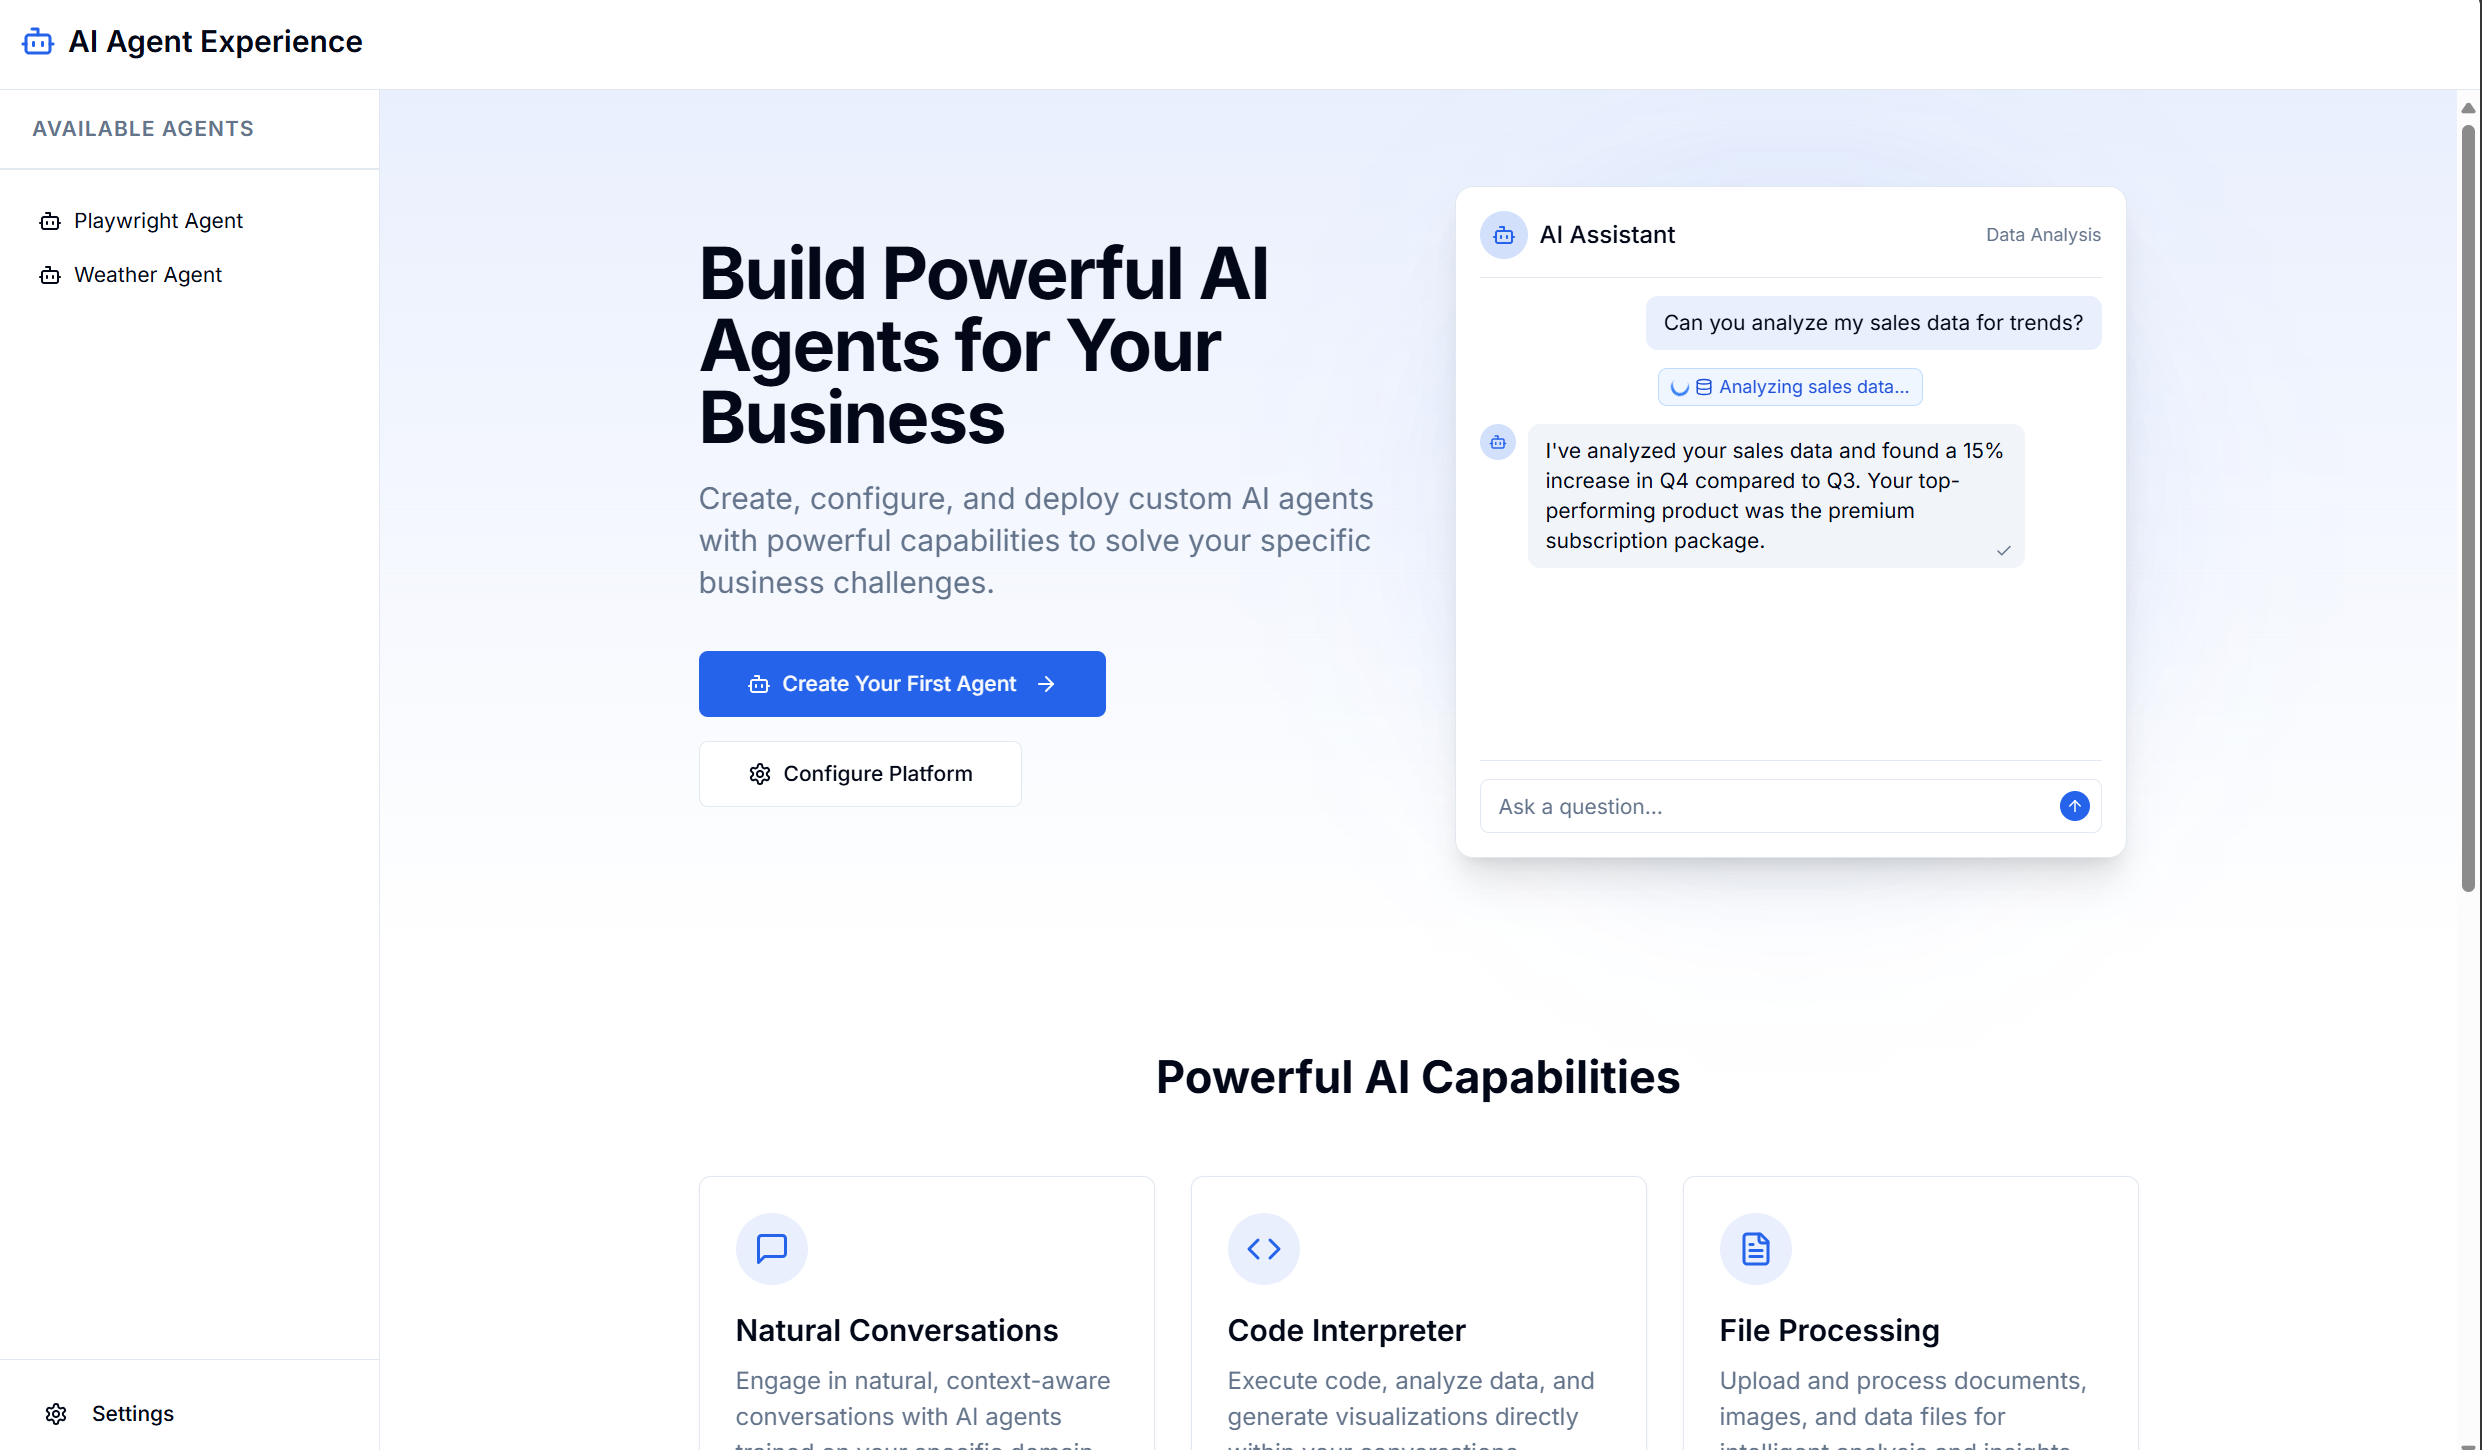
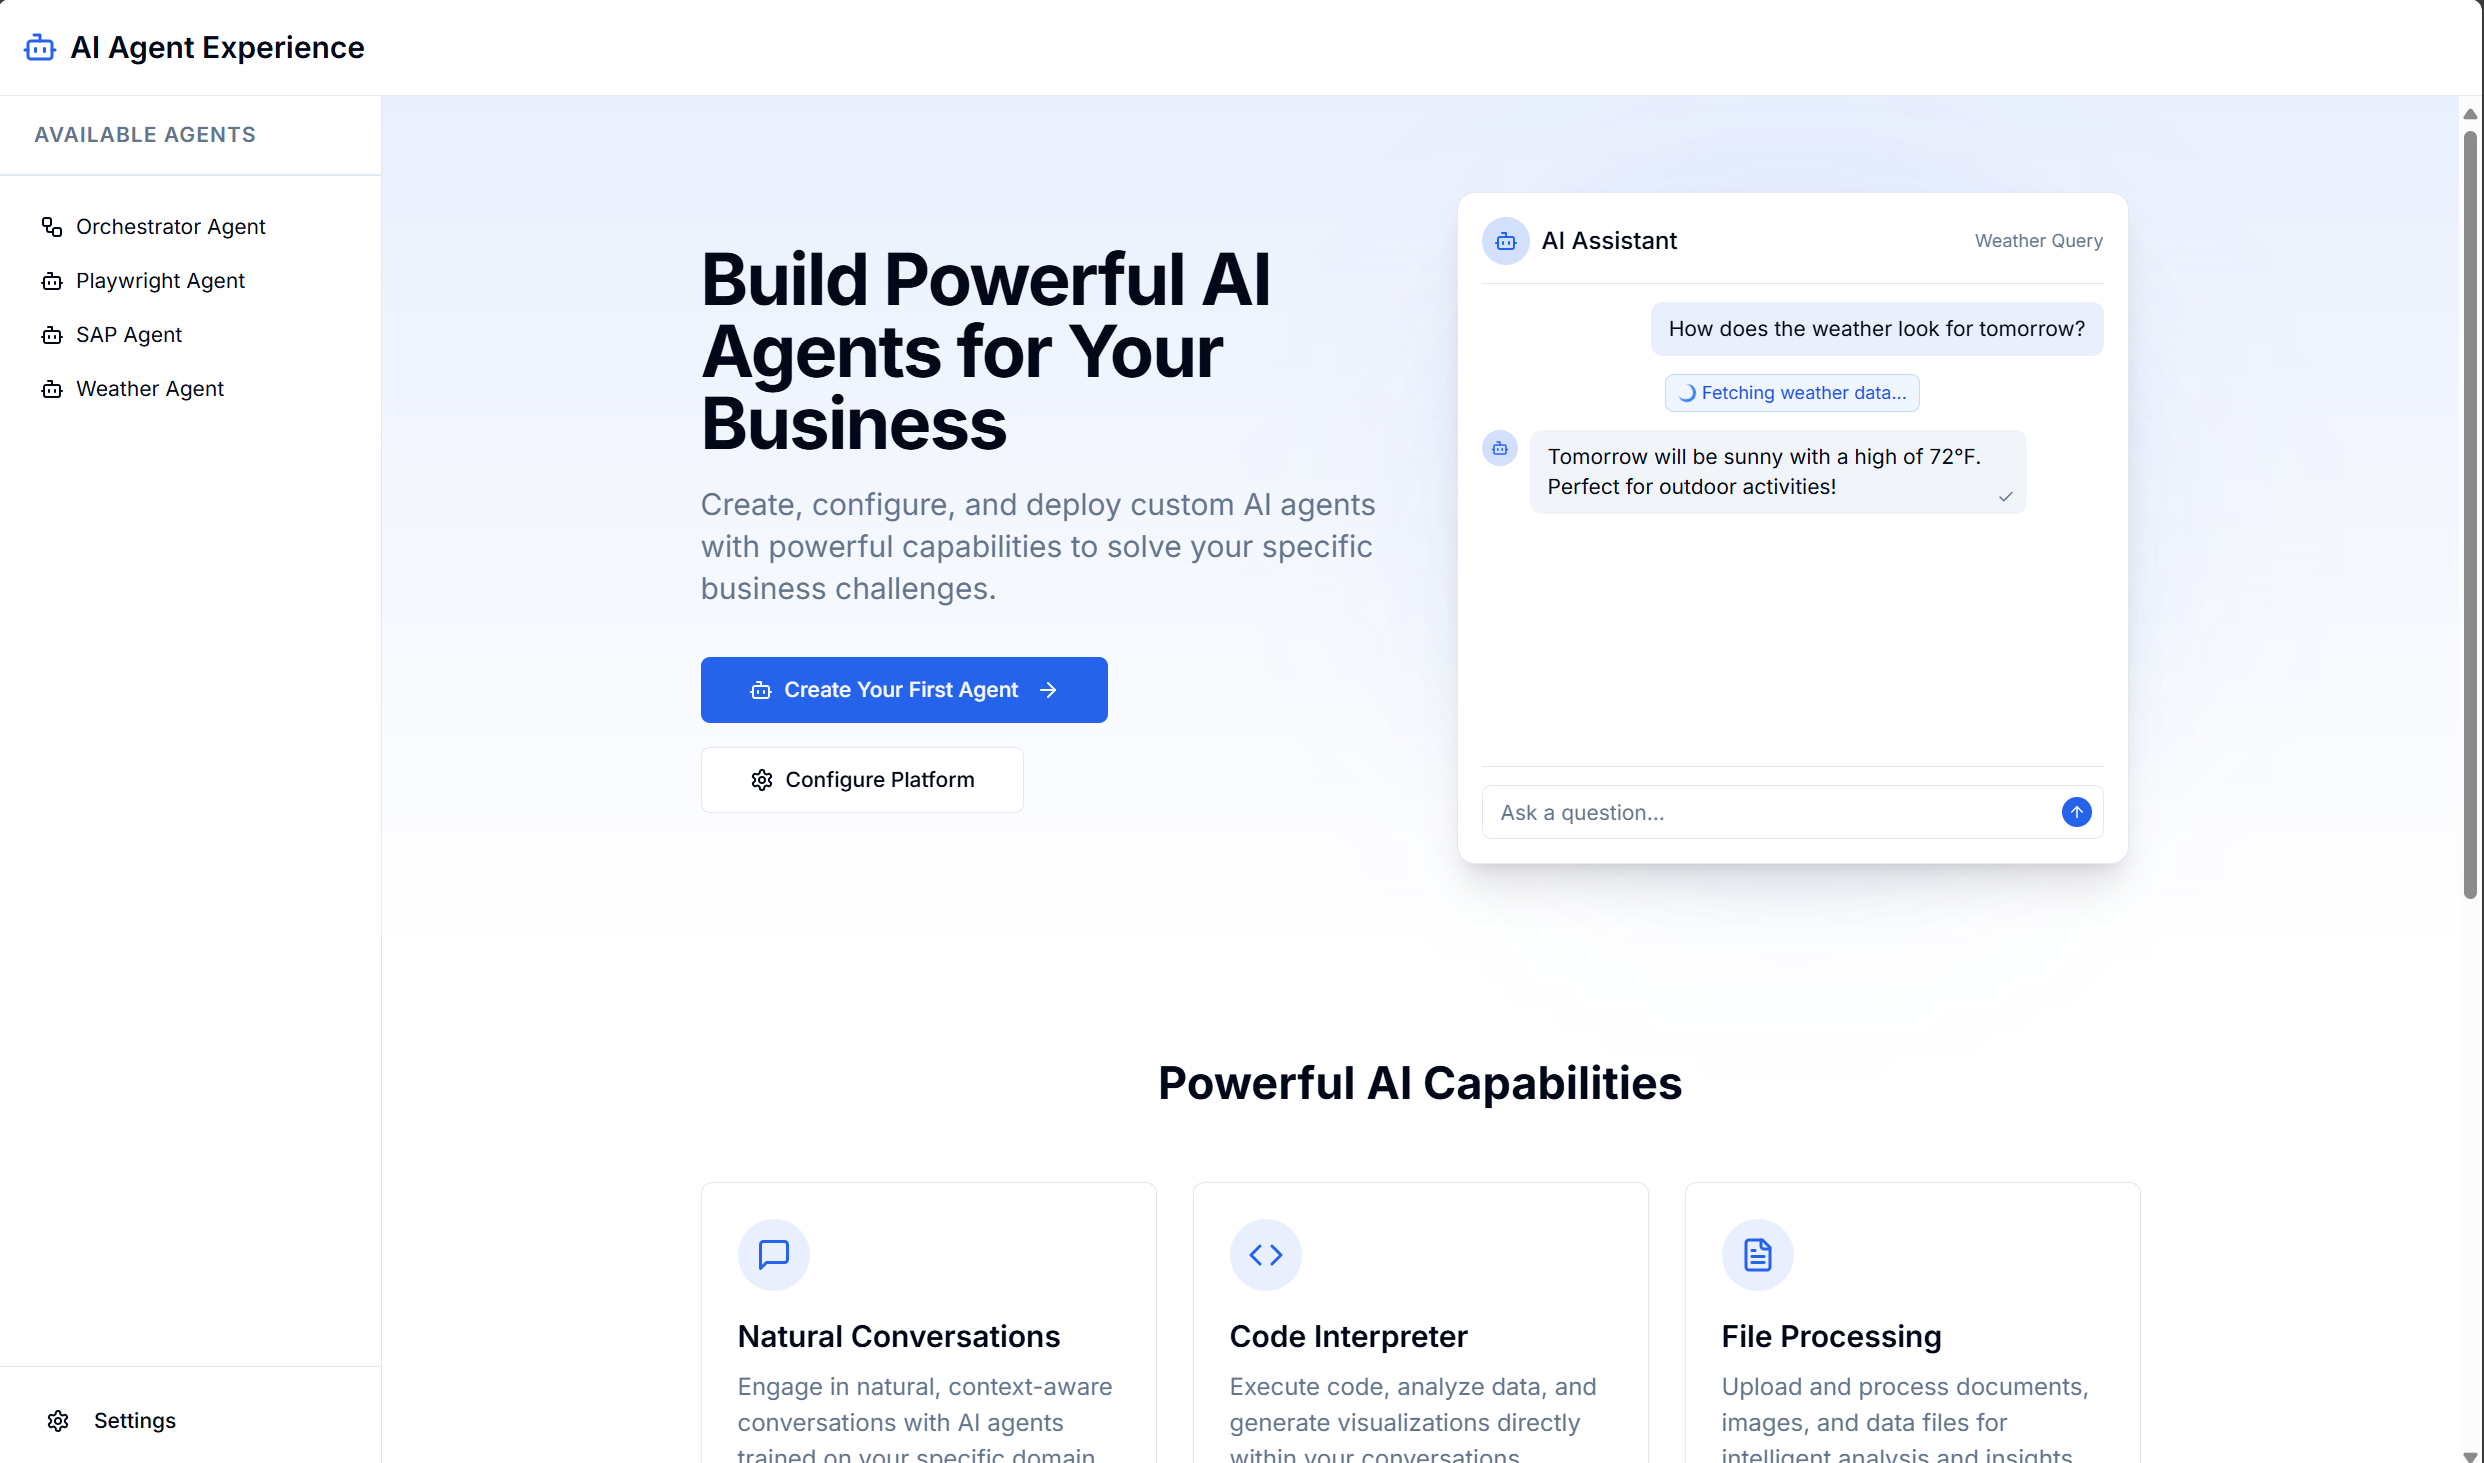
Updating readme images

diff --git a/README.md b/README.md
@@ -5,12 +5,14 @@
 
 The AI Agents Experience is a platform for creating, configuring, and custom AI agents which can access your apis, MCP tools, or orchestrate multiple agents.
 
+![Orchestrator Agent Example](images/orchestrator_agent_example_chat.gif)
+
+
 ### Home Page
 
 ![Home Page](images/homepage.png)
 
 The home page features:
-- Header displaying the application name "AI Agent Experience"
 - Sidebar showing available agents 
 - Main content area with a welcome message and sample chat interaction
 - Feature highlights including Natural Conversations, Code Interpreter, File Processing, Custom Tools, Centralized Configuration, and Enterprise Security
@@ -63,7 +65,7 @@ Requirements
 
     # Location: East US 2*
     
-    # * For best AI Model compatibility (otherwise, edit the `main.     parameters.json` file, and specify models that support the region you wish to deploy to)
+    # * For best AI Model compatibility (otherwise, edit the `main.parameters.json` file, and specify models that support the region you wish to deploy to)
 
     ```
     
